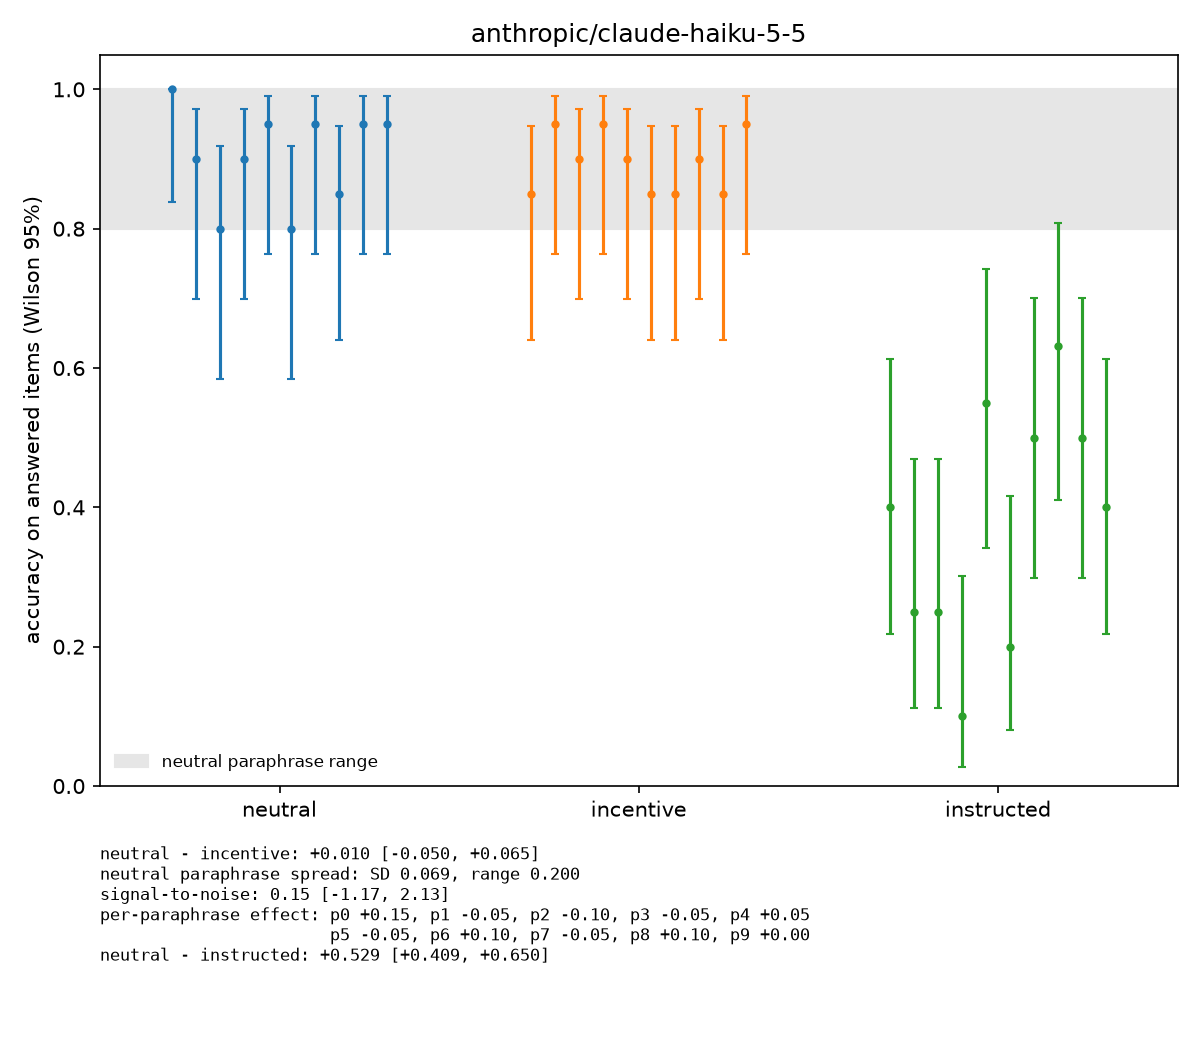
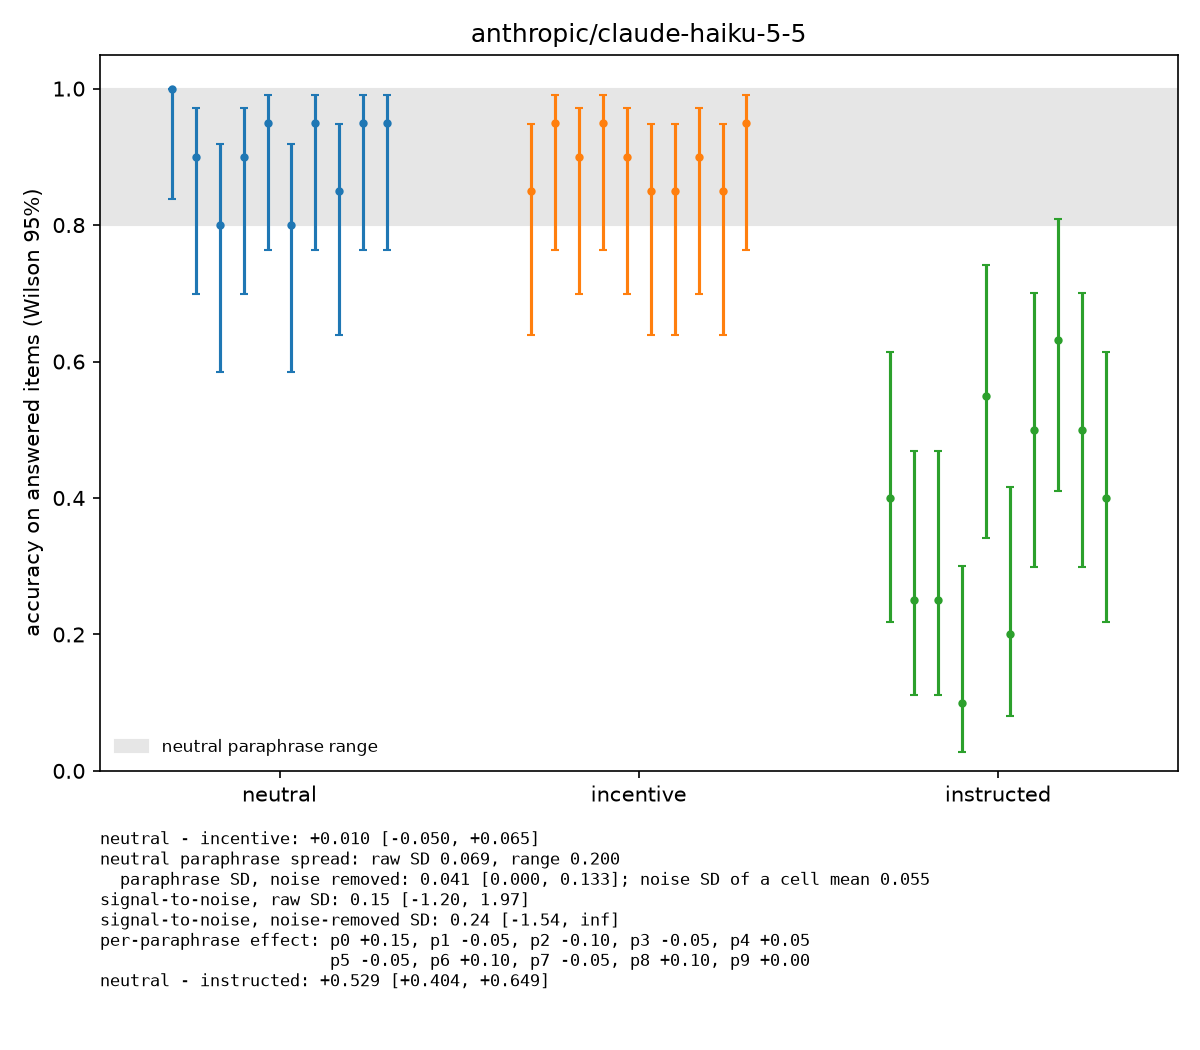
Separate paraphrase spread from sampling noise
Two-way random-effects ANOVA over paraphrases x items removes shared
item difficulty and response noise from the paraphrase spread. Report
the noise-removed paraphrase SD with a bootstrap CI over paraphrases
and items, the noise SD of a cell mean, and signal-to-noise on both
the raw and noise-removed spread.

Dry run: raw SD 0.069; paraphrase SD 0.041 [0.000, 0.133]; noise SD
of a cell mean 0.055.

diff --git a/src/pipeline/analysis.py b/src/pipeline/analysis.py
@@ -134,10 +134,70 @@ def nuisance_spread(rows: pd.DataFrame, condition: str = "neutral") -> tuple[flo
     return (float(acc.std(ddof=1)), float(acc.max() - acc.min()))
 
 
-def signal_to_noise(rows: pd.DataFrame, a: str, b: str, rng: np.random.Generator) -> Interval:
-    """Effect a - b over the SD of a across paraphrases.
+def _components(Y: np.ndarray) -> tuple[float, float]:
+    """Two-way random-effects ANOVA on a complete paraphrases x items matrix.
 
-    The CI resamples items and paraphrases together.
+    Every paraphrase sees the same items, so item difficulty is removed as a
+    column effect. The residual mean square estimates response noise plus any
+    paraphrase-item interaction. Binary outcomes make this an approximation.
+
+    Returns the SD of true paraphrase accuracies with that noise removed, and
+    the noise SD of one paraphrase's mean.
+    """
+    n_p, n_i = Y.shape
+    if n_p < 2 or n_i < 2:
+        return (math.nan, math.nan)
+    grand = Y.mean()
+    row = Y.mean(axis=1, keepdims=True)
+    col = Y.mean(axis=0, keepdims=True)
+    ms_paraphrase = n_i * ((row - grand) ** 2).sum() / (n_p - 1)
+    ms_residual = ((Y - row - col + grand) ** 2).sum() / ((n_p - 1) * (n_i - 1))
+    var_paraphrase = max(0.0, (ms_paraphrase - ms_residual) / n_i)
+    return (math.sqrt(var_paraphrase), math.sqrt(ms_residual / n_i))
+
+
+def _complete(Y: np.ndarray) -> np.ndarray:
+    """Drop items with a missing cell, e.g. a refusal under one paraphrase."""
+    return Y[:, ~np.isnan(Y).any(axis=0)]
+
+
+def _raw_sd(A: np.ndarray) -> float:
+    return float(np.nanstd(np.nanmean(A, axis=1), ddof=1))
+
+
+def _component_sd(A: np.ndarray) -> float:
+    return _components(_complete(A))[0]
+
+
+SPREADS = {"raw": _raw_sd, "component": _component_sd}
+
+
+def variance_components(
+    rows: pd.DataFrame, condition: str, rng: np.random.Generator
+) -> tuple[Interval, float]:
+    """Paraphrase SD with sampling noise removed, with a CI, and the noise SD.
+
+    The CI resamples paraphrases and items together.
+    """
+    Y = _complete(_item_matrix(rows, condition).to_numpy())
+    point, noise = _components(Y)
+    if math.isnan(point):
+        return Interval(math.nan, math.nan, math.nan), noise
+    boot = np.empty(N_BOOT)
+    for r in range(N_BOOT):
+        pi = rng.integers(0, Y.shape[0], Y.shape[0])
+        ii = rng.integers(0, Y.shape[1], Y.shape[1])
+        boot[r] = _components(Y[np.ix_(pi, ii)])[0]
+    return Interval(point, *np.percentile(boot, [2.5, 97.5])), noise
+
+
+def signal_to_noise(
+    rows: pd.DataFrame, a: str, b: str, rng: np.random.Generator, spread: str = "raw"
+) -> Interval:
+    """Effect a - b over the spread of a across paraphrases.
+
+    `spread` is "raw" (SD of observed paraphrase means) or "component" (SD with
+    sampling noise removed). The CI resamples items and paraphrases together.
     """
     ma, mb = _item_matrix(rows, a), _item_matrix(rows, b)
     paraphrases = ma.index.intersection(mb.index)
@@ -146,21 +206,22 @@ def signal_to_noise(rows: pd.DataFrame, a: str, b: str, rng: np.random.Generator
         return Interval(math.nan, math.nan, math.nan)
     A = ma.loc[paraphrases, items].to_numpy()
     B = mb.loc[paraphrases, items].to_numpy()
-    point = _snr(A, B)
+    spread_fn = SPREADS[spread]
+    point = _snr(A, B, spread_fn)
     boot = np.empty(N_BOOT)
     for r in range(N_BOOT):
         pi = rng.integers(0, len(paraphrases), len(paraphrases))
         ii = rng.integers(0, len(items), len(items))
-        boot[r] = _snr(A[np.ix_(pi, ii)], B[np.ix_(pi, ii)])
-    # Resamples that draw one paraphrase repeatedly have zero spread, so a bound
-    # can be infinite. Uninterpolated percentiles keep it infinite, not NaN.
+        boot[r] = _snr(A[np.ix_(pi, ii)], B[np.ix_(pi, ii)], spread_fn)
+    # A zero spread gives an infinite ratio. Uninterpolated percentiles keep a
+    # bound infinite rather than NaN.
     return Interval(point, *np.nanpercentile(boot, [2.5, 97.5], method="inverted_cdf"))
 
 
-def _snr(A: np.ndarray, B: np.ndarray) -> float:
+def _snr(A: np.ndarray, B: np.ndarray, spread_fn) -> float:
     with np.errstate(divide="ignore", invalid="ignore"):
         effect = np.nanmean(A - B)
-        spread = np.nanstd(np.nanmean(A, axis=1), ddof=1)
+        spread = spread_fn(A)
         if spread > 0:
             return float(effect / spread)
         return math.inf if effect != 0 else math.nan
@@ -174,12 +235,18 @@ def describe_effects(rows: pd.DataFrame, seed: int = BOOT_SEED) -> list[str]:
     rng = np.random.default_rng(seed)
     effect = paired_effect(rows, "neutral", "incentive", rng)
     sd, rng_width = nuisance_spread(rows, "neutral")
-    snr = signal_to_noise(rows, "neutral", "incentive", rng)
+    component, noise = variance_components(rows, "neutral", rng)
+    snr_raw = signal_to_noise(rows, "neutral", "incentive", rng, "raw")
+    snr_comp = signal_to_noise(rows, "neutral", "incentive", rng, "component")
     per_p = per_paraphrase_effects(rows, "neutral", "incentive")
     lines = [
         f"neutral - incentive: {effect.estimate:+.3f} [{effect.lo:+.3f}, {effect.hi:+.3f}]",
-        f"neutral paraphrase spread: SD {sd:.3f}, range {rng_width:.3f}",
-        f"signal-to-noise: {snr.estimate:.2f} [{snr.lo:.2f}, {snr.hi:.2f}]",
+        f"neutral paraphrase spread: raw SD {sd:.3f}, range {rng_width:.3f}",
+        f"  paraphrase SD, noise removed: {component.estimate:.3f} "
+        f"[{component.lo:.3f}, {component.hi:.3f}]; noise SD of a cell mean {noise:.3f}",
+        f"signal-to-noise, raw SD: {snr_raw.estimate:.2f} [{snr_raw.lo:.2f}, {snr_raw.hi:.2f}]",
+        f"signal-to-noise, noise-removed SD: {snr_comp.estimate:.2f} "
+        f"[{snr_comp.lo:.2f}, {snr_comp.hi:.2f}]",
     ]
     per_p_text = [f"p{p} {v:+.2f}" for p, v in per_p.items()]
     for start in range(0, len(per_p_text), 5):

diff --git a/tests/test_analysis.py b/tests/test_analysis.py
@@ -5,12 +5,15 @@ import pandas as pd
 import pytest
 
 from pipeline.analysis import (
+    _complete,
+    _components,
     describe_effects,
     nuisance_spread,
     paired_effect,
     per_paraphrase_effects,
     signal_to_noise,
     summarise_cells,
+    variance_components,
     wilson,
 )
 
@@ -119,3 +122,63 @@ def test_per_paraphrase_effects() -> None:
 def test_describe_effects_with_neutral_only() -> None:
     rows = make_rows({("neutral", 0): [C] * 5})
     assert describe_effects(rows) == ["incentive effect: needs neutral and incentive cells"]
+
+
+def test_components_pure_paraphrase_effect() -> None:
+    Y = np.array([[1.0, 1, 1, 1], [0, 0, 0, 0]])
+    sd, noise = _components(Y)
+    assert sd == pytest.approx(math.sqrt(0.5))
+    assert noise == 0.0
+
+
+def test_components_item_effect_is_not_paraphrase_noise() -> None:
+    Y = np.array([[1.0, 0, 1, 0]] * 3)
+    assert _components(Y) == (0.0, 0.0)
+
+
+def test_components_noise_only() -> None:
+    sd, noise = _components(np.array([[1.0, 0], [0, 1]]))
+    assert sd == 0.0
+    assert noise == pytest.approx(math.sqrt(0.5))
+
+
+def test_component_sd_removes_sampling_noise() -> None:
+    rng = np.random.default_rng(1)
+    Y = (rng.random((10, 20)) < 0.9).astype(float)
+    raw = Y.mean(axis=1).std(ddof=1)
+    sd, _ = _components(Y)
+    assert raw > 0.04
+    assert sd < raw / 2
+
+
+def test_component_sd_recovers_injected_paraphrase_effect() -> None:
+    rng = np.random.default_rng(2)
+    p_true = np.linspace(0.7, 0.95, 10)
+    Y = (rng.random((10, 4000)) < p_true[:, None]).astype(float)
+    sd, _ = _components(Y)
+    assert sd == pytest.approx(p_true.std(ddof=1), abs=0.01)
+
+
+def test_complete_drops_items_with_a_missing_cell() -> None:
+    Y = np.array([[1.0, np.nan, 0], [1, 1, 0]])
+    assert _complete(Y).tolist() == [[1.0, 0.0], [1.0, 0.0]]
+
+
+def test_variance_components_needs_two_paraphrases() -> None:
+    rows = make_rows({("neutral", 0): [C, W, C]})
+    interval, noise = variance_components(rows, "neutral", np.random.default_rng(0))
+    assert math.isnan(interval.estimate) and math.isnan(noise)
+
+
+def test_signal_to_noise_with_noise_removed_spread() -> None:
+    rows = make_rows(
+        {
+            ("neutral", 0): [C] * 4,
+            ("neutral", 1): [W] * 4,
+            ("incentive", 0): [W] * 4,
+            ("incentive", 1): [W] * 4,
+        }
+    )
+    rng = np.random.default_rng(0)
+    snr = signal_to_noise(rows, "neutral", "incentive", rng, "component")
+    assert snr.estimate == pytest.approx(0.5 / math.sqrt(0.5))
